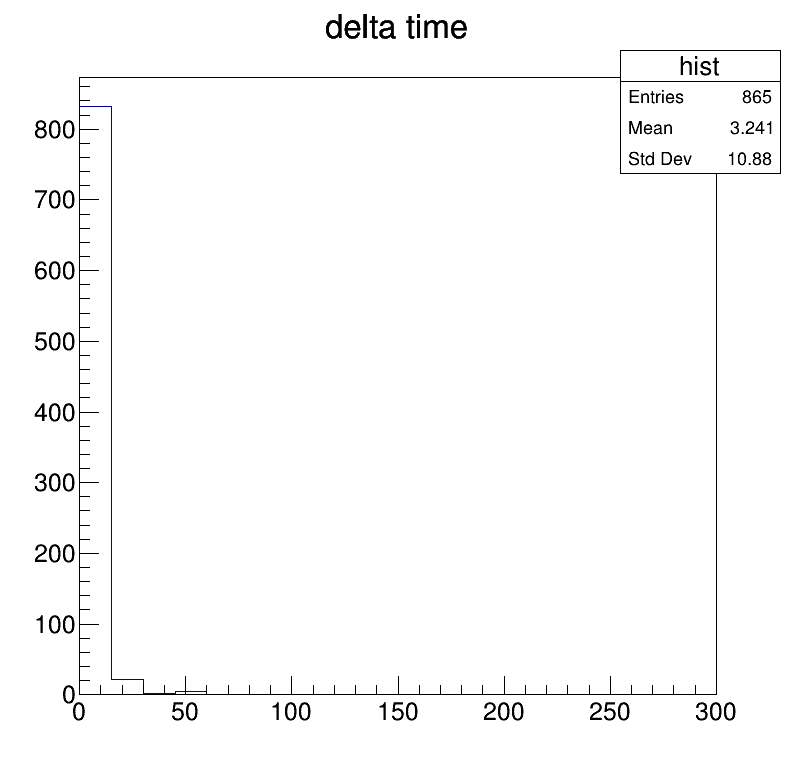
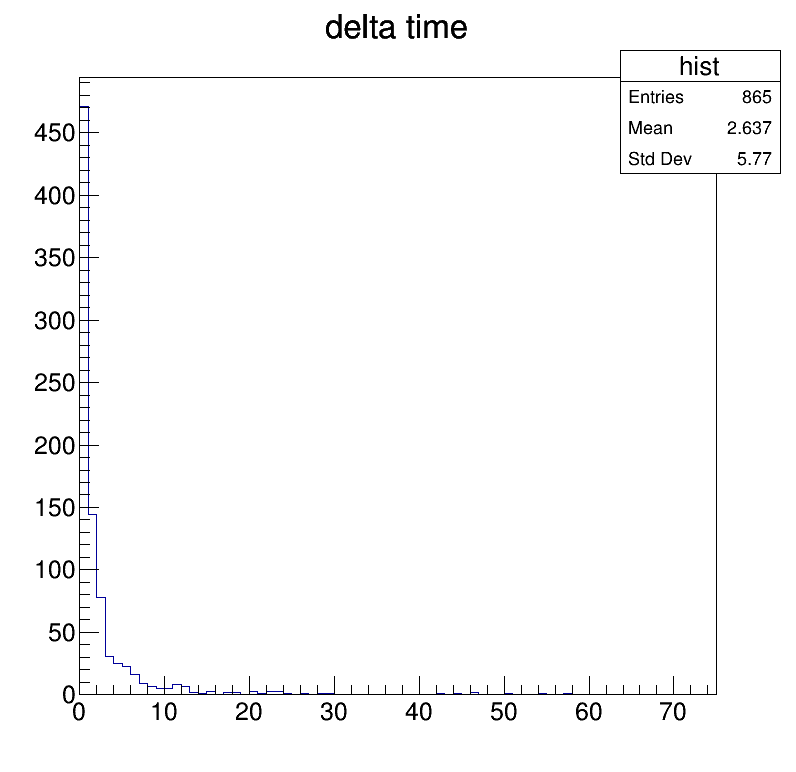
param histogramm

diff --git a/run_2/count_rate.cc b/run_2/count_rate.cc
@@ -55,7 +55,7 @@ void count_rate(){
 	cout << "average [ps]: " << std::reduce(vec_time_point.begin(), vec_time_point.end())/static_cast<float>(vec_time_point.size()) << endl;
 
 	double delta_time [s-1];
-	auto h = new TH1D("hist","delta time", 20, 0, 300);
+	auto h = new TH1D("hist","delta time", 75, 0, 75);
 	
 	for(int i=0; i<vec_time_point.size()-1; i++){
 		double t = vec_time_point[i+1] - vec_time_point[i];
